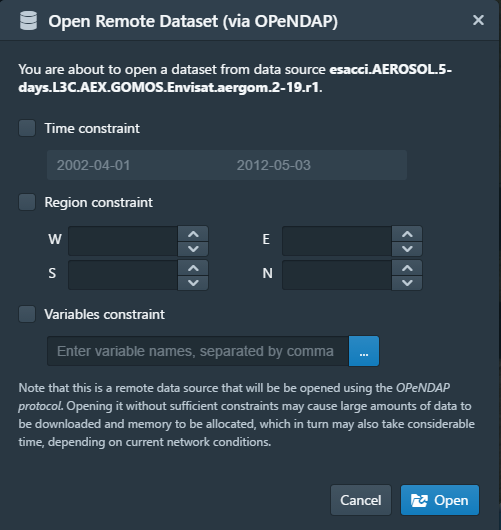
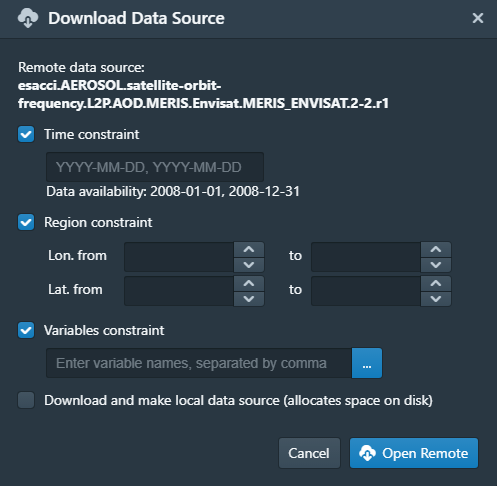
update docs

diff --git a/doc/source/quick_start.rst b/doc/source/quick_start.rst
@@ -61,6 +61,7 @@ Create a new workspace.
 .. code-block:: console
 
     $ cate ws new
+    cate-webapi: started service, listening on localhost:49836
     Workspace created.
 
 Open the desired datasets, by providing their name and desired time-span.
@@ -68,11 +69,13 @@ Open the desired datasets, by providing their name and desired time-span.
 .. code-block:: console
 
     $ cate res open cl07 esacci.CLOUD.mon.L3C.CLD_PRODUCTS.multi-sensor.multi-platform.ATSR2-AATSR.2-0.r1
+    Opening dataset: done
     Resource "cl07" set.
 
 .. code-block:: console
 
     $ cate res open oz07 esacci.OZONE.mon.L3.NP.multi-sensor.multi-platform.MERGED.fv0002.r1 2007-01-01 2007-12-30
+    Opening dataset: done
     Resource "oz07" set.
 
 
@@ -110,7 +113,7 @@ We can plot the datasets and save the plots using the ``plot_map`` operation:
     Operation 'plot_map' executed.
 
 .. figure:: _static/quick_start/fig1.png
-   :scale: 100 %
+   :width: 1024px
    :align: center
 
 .. code-block:: console
@@ -120,7 +123,7 @@ We can plot the datasets and save the plots using the ``plot_map`` operation:
     Operation 'plot_map' executed.
 
 .. figure:: _static/quick_start/fig2.png
-   :scale: 100 %
+   :width: 1024px
    :align: center
 
 
@@ -176,26 +179,31 @@ To find out more about a particular operation, use ``cate op info``
     $ cate op info coregister
 
     Operation cate.ops.coregistration.coregister
-    ===========================================
+    ============================================
 
     Perform coregistration of two datasets by resampling the slave dataset unto the
     grid of the master. If upsampling has to be performed, this is achieved using
     interpolation, if downsampling has to be performed, the pixels of the slave dataset
     are aggregated to form a coarser grid.
 
-    This operation works on datasets whose spatial dimensions are defined on global,
+    The returned dataset will contain the lat/lon intersection of provided
+    master and slave datasets, resampled unto the master grid frequency.
+
+    This operation works on datasets whose spatial dimensions are defined on
     pixel-registered and equidistant in lat/lon coordinates grids. E.g., data points
     define the middle of a pixel and pixels have the same size across the dataset.
 
     This operation will resample all variables in a dataset, as the lat/lon grid is
-    defined per dataset. It works only if all variables in the dataset have (time/lat/lon)
-    dimensions.
+    defined per dataset. It works only if all variables in the dataset have lat
+    and lon as dimensions.
 
     For an overview of downsampling/upsampling methods used in this operation, please
     see https://github.com/CAB-LAB/gridtools
 
     Whether upsampling or downsampling has to be performed is determined automatically
     based on the relationship of the grids of the provided datasets.
+
+    Version: 1.1
 
     Inputs:
       ds_master (Dataset)
@@ -214,6 +222,7 @@ To find out more about a particular operation, use ``cate op info``
     Output:
       return (Dataset)
           The slave dataset resampled on the grid of the master
+          add history: True
 
 To carry out coregistration, use ``cate res set`` again with appropriate operation parameters
 
@@ -259,7 +268,7 @@ To filter the datasets to contain only a particular region use the ``subset_spat
     Operation 'plot_map' executed.
 
 .. figure:: _static/quick_start/fig4.png
-   :scale: 100 %
+   :width: 1024px
    :align: center
 
 .. code-block:: console
@@ -269,7 +278,7 @@ To filter the datasets to contain only a particular region use the ``subset_spat
     Operation 'plot_map' executed.
 
 .. figure:: _static/quick_start/fig5.png
-   :scale: 100 %
+   :width: 1024px
    :align: center
 
 
@@ -318,7 +327,7 @@ To plot the time-series and save the ``plot`` operation can be used together wit
     Operation 'plot' executed.
 
 .. figure:: _static/quick_start/fig6.png
-   :scale: 100 %
+   :width: 1024px
    :align: center
 
 .. code-block:: console
@@ -328,7 +337,7 @@ To plot the time-series and save the ``plot`` operation can be used together wit
     Operation 'plot' executed.
 
 .. figure:: _static/quick_start/fig7.png
-   :scale: 100 %
+   :width: 1024px
    :align: center
 
 
@@ -341,9 +350,9 @@ To carry out a product-moment correlation on the mean time-series, the ``pearson
 .. code-block:: console
 
     $ cate op list --tag correlation
-    One operation found
-       1: pearson_correlation_scalar
-       2: pearson_correlation
+    2 operations found
+      0: pearson_correlation
+      1: pearson_correlation_scalar
 
 .. code-block:: console
 
@@ -381,7 +390,7 @@ probability values, one can use ``pearson_correlation``:
     Operation 'plot_map' executed.
 
 .. figure:: _static/quick_start/fig8.png
-   :scale: 100 %
+   :width: 1024px
    :align: center
 
 

diff --git a/doc/source/user_manual/um_gui.rst b/doc/source/user_manual/um_gui.rst
@@ -24,7 +24,7 @@ The Cate Desktop user interface basically comprises *panels*, *views*, and a *me
 .. _gui_initial:
 
 .. figure:: ../_static/figures/user_manual/gui_initial.png
-   :scale: 100 %
+   :width: 1024px
    :align: center
 
    Cate Desktop initial layout
@@ -46,9 +46,10 @@ reflects what just has been described above with respect to data sources, operat
 
 Other panels are initially hidden. They are
 
-* On the upper left, the **LAYERS** panel, to manage the imagery layers displayed on the active *World view*;
-* On the upper left, the **PLACEMARKS** panel, to manage user-defined placemarks, which may be used as input to
+* On the upper right, the **LAYERS** panel, to manage the imagery layers displayed on the active *World view*;
+* On the upper right, the **PLACEMARKS** panel, to manage user-defined placemarks, which may be used as input to
   various operations, e.g. to create time series plots;
+* On the lower right, the **STYLES** panel, to adjust the styles of the selected layer or entity;
 * On the lower right, the **VIEWS** panel, to display and edit properties of the currently active view. It also allows
   for creating new *World views*;
 * On the lower right, the **TASKS** panel, to list and possibly cancel running background tasks.
@@ -197,8 +198,9 @@ After confirming the dialog, a download task will be started, which can be obser
 Once the download is finished, a notification will be displayed and a new local data source will be available for the
 ``local data store``.
 
-To choose the second option described above, press the **Open** button to open the **Open Remote Dataset** dialog shown
-in :ref:`gui_dialog_open_remote_dataset`.
+To choose the second option described above, press the **Download** button to open the **Download Dataset** dialog, and
+then uncheck **Download and make local data source (allocates space on disk)** as shown in
+:ref:`gui_dialog_open_remote_dataset`.
 
 .. _gui_dialog_open_remote_dataset:
 
@@ -403,7 +405,8 @@ VARIABLES Panel
 ---------------
 
 The **VARIABLES** panel lists the data variables of a selected resource in the **WORKSPACE** panel.
-The list entry shows the variable's name and its data type.
+The list entry shows the variable's name and its data type. When available, the value of each variable of the selected
+layer will be displayed next to its name after placing the mouse cursor at a point on the globe for ~600ms.
 
 The toolbar to the lower right of the list of variables offers the following functions (in order):
 
@@ -445,7 +448,13 @@ The toolbar to the lower right of the layer list offers the following functions 
 * Move selected layer up to render it on top of others
 * Move selected layer down so other layers are rendered on top of it
 
-The **Details** of the **LAYERS** panel lists various layer settings. The vailable settings depend on the type
+The **Details** of the **LAYERS** panel lists several layer settings:
+
+* *Data selection* with this configuration one can quickly browse through the dataset based on the layer index.
+* *Layer split* with this setting, user can create a split line with one side of the line showing the globe with
+  the selected layer and the other side showing only the globe.
+
+The available settings depend on the type
 of the selected layer. For image layers originating from a variable they are for example:
 
 * *Display Range* is the value range to which a given colour map is mapped.
@@ -549,8 +558,7 @@ Preferences Dialog
 On the **General** tab you can specify the following settings:
 
 * Whether to *reopen the last workspace on startup* of Cate
-* The *resource name prefix* which will be used by default for new resources
-  originating from opening datasets or executing operations.
+* Whether to automatically update the software once a newer version is available
 * Whether to *open a plot view for new Figure resources*. If selected and
   a newly created resource is of type ``Figure``, a plot view will be opened automatically.
   Note, ``Figure`` resources are created by operations named ``plot_<type>()``.
@@ -573,8 +581,16 @@ On the **Data Management** tab you can specify the following settings:
   of data required locally.
 * Whether to use a *per-workspace imagery cache* which may speed up image display performance.
   The cache is placed in each workspace directory and requires extra (disk) space.
+* The *resource name prefix* which will be used by default for new resources
+  originating from opening datasets or executing operations.
 
 .. figure:: ../_static/figures/user_manual/gui_dialog_preferences_2.png
+   :scale: 100 %
+   :align: center
+
+On the **Proxy Configuration** tab you can specify the proxy URL if required.
+
+.. figure:: ../_static/figures/user_manual/gui_dialog_preferences_3.png
    :scale: 100 %
    :align: center
 

diff --git a/doc/source/about.rst b/doc/source/about.rst
@@ -64,11 +64,13 @@ A data store comprises multiple **data sources** which know each dataset's uniqu
 information about the dataset. Each data source also knows about the available data access protocols, which may be
 direct file access, file download via HTTP, or access through OPeNDAP, or a Web Coverage Service (WCS).
 
-In Cate's CLI, ``cate ds`` is used to perform numerous dataset-related tasks. Type:::
+In Cate's CLI, ``cate ds`` is used to perform numerous dataset-related tasks. Type::
 
     $ cate ds --help
 
-to get an overview of the supported sub-comands. For example, use:::
+to get an overview of the supported sub-comands.
+
+For example, use::
 
     $ cate ds list
 
@@ -164,7 +166,7 @@ associated in-memory resource objects.
 .. _about_workspace_fig:
 
 .. figure:: _static/figures/about-workspace.png
-   :scale: 100 %
+   :width: : 1024px
    :align: center
 
    Cate's workspace/workflow concept

diff --git a/doc/source/user_manual/um_setup.rst b/doc/source/user_manual/um_setup.rst
@@ -29,7 +29,7 @@ Installation
 
 Installers for the Linux, Mac OS X, and Windows platform can be downloaded from the project's
 web page at `cci-tools.github.io <https://cci-tools.github.io/>`_
-or on Cate's release page on `GitHub <https://github.com/CCI-Tools/cate/releases>`_.
+or on Cate's release page on `GitHub <https://github.com/CCI-Tools/cate-desktop/releases>`_.
 
 We provide two Cate installers for *Cate Core* and *Cate Desktop*, Cate's graphical user interface.
 Note that *Cate Desktop* cannot be run without *Cate Core* installed. This may change in the future.
@@ -56,7 +56,7 @@ When you run the installer on Windows, make sure you un-check **Add Anaconda to 
 Otherwise the Anaconda Python distribution used by the Cate would become your system's default Python.
 
 .. figure:: ../_static/figures/installer-win.png
-   :scale: 100 %
+   :width: 1024px
    :align: center
 
 
